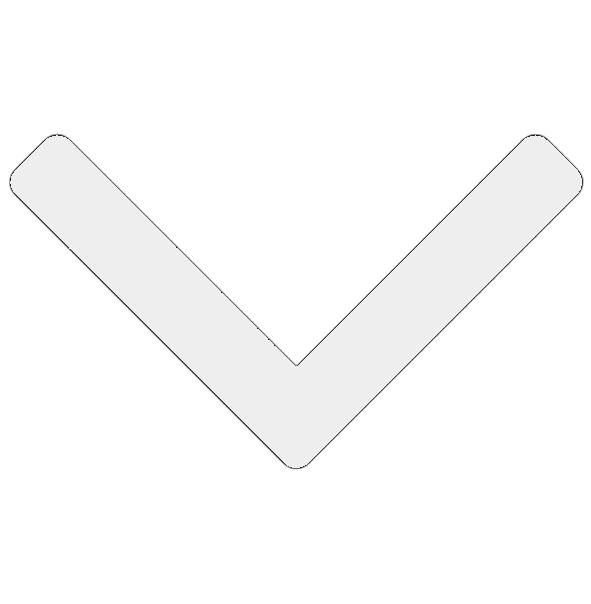
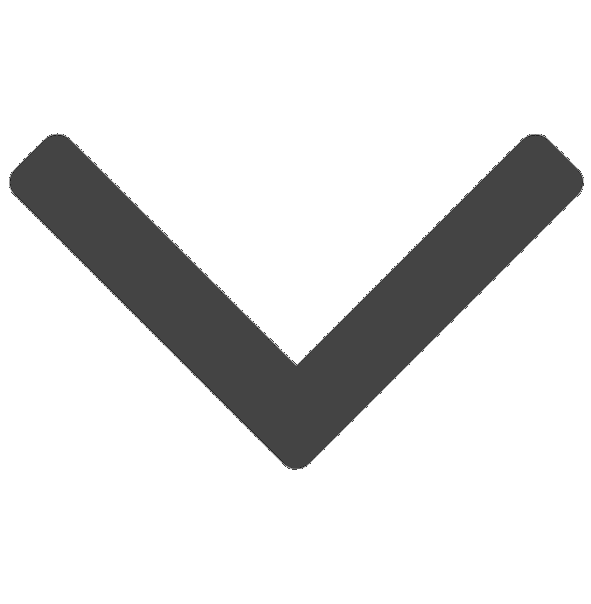
Fixed buttons size, and added arrow handle to exit the description panel

Changed region(s): [[0.0, 0.2086, 1.0, 0.7748]]

diff --git a/src/components/extras/latex/CourseFolder.tsx b/src/components/extras/latex/CourseFolder.tsx
@@ -1,5 +1,6 @@
 import { useState } from 'react';
 import styles from './LatexFolders.module.scss';
+import downArrow from '../../../assets/down_arrow.png';
 import openFolder from '../../../assets/folderOpen.png';
 import closedFolder from '../../../assets/folderClosed.png';
 import note from '../../../assets/notes.png';
@@ -23,61 +24,34 @@ function CourseFolder(props) {
 
   const numberOfElements = [
     {name: 'MATH314', files: ["Notes", "Ass4", "code"]},
-    {name: 'PHYS350', files: ["Ass1","Ass2","Ass3","Ass4","Ass5","Ass6","Ass7","Ass8", "code"]},
-    {name: 'PHYS356', files: ["Ass1","Ass2","Ass3","Ass4","Ass5","Ass6","Ass7","Ass8","Ass9", "code"]},
+    {name: 'PHYS350', files: ["Ass1","Ass2","Ass3","Ass4","Ass5","Ass6","Ass7", "code"]},
+    {name: 'PHYS356', files: ["Ass1","Ass2","Ass3","Ass4","Ass5","Ass6","Ass7", "code"]},
     {name: 'MATH327', files: ["Ass1","Ass2","Ass3","Ass4","Ass5", "code"]},
     {name: 'MATH475', files: ["Ass1","Ass2","Ass3", "code"]},
     {name: 'MATH325', files: ["Final","Ass1","Ass2","Ass3","Ass4","Ass5", "code"]}, 
     {name: 'MATH240', files: ["Ass1","Ass2","Ass3","Ass4", "code"]},
     {name: 'PHYS241', files: ["Final","Ass1","Ass2","Ass3","Ass4","Ass5", "code"]},
     {name: 'PHYS230', files: ["Ass5","Ass7","Ass8","Ass9","Ass10"]},
-
-    // {name: 'MATH314', total: 3, fcn: 1, ass: 1, code: 1},
-    // {name: 'PHYS350', total: 9, fcn: 0, ass: 8, code: 1},
-    // {name: 'PHYS356', total: 10, fcn: 0, ass: 9, code: 1},
-    // {name: 'MATH327', total: 6, fcn: 0, ass: 5, code: 1},
-    // {name: 'MATH475', total: 4, fcn: 0, ass: 3, code: 1},
-    // {name: 'MATH325', total: 6, fcn: 0, ass: 4, code: 1}, //also final exam
-    // {name: 'MATH240', total: 5, fcn: 0, ass: 4, code: 1},
-    // {name: 'PHYS241', total: 7, fcn: 0, ass: 5, code: 1}, //also final exam
-    // {name: 'PHYS230', total: 6, fcn: 0, ass: 5, code: 1},
   ];
 
   return (
     <div className={styles.folderContainer} key={key}>
       <Fade in={showDescription}>
           <div className={`${styles.decriptionPanel}`}>
-            <div className={styles.image}>
-
+            <div className={styles.imageContainer}>
+              <span>
+                {value.name}
+                <p>
+                  <img src={downArrow} width="30" />
+                </p>
+              </span>
+              <div className={styles.image} />
             </div>
             <div className={styles.description}>
               <div className={styles.filesGrid} >
                 {buildButtons(numberOfElements, index)}
-                  {/* <button>
-                    <img src={book}></img>
-                    <span>Class Notes</span>
-                  </button>
-                  <button>
-                    <img src={note}></img>
-                    <span>Assignment 1</span>
-                  </button>
-                  <button>aa</button>
-                  <button>a</button>
-                  <button>a</button> */}
               </div>  
             </div>
-            {/* <fieldset>
-              <legend>Relevent Coursework</legend>
-              <div className={styles.coursesList} >
-                <ul>
-                  <li>Introduction to Computer Science <i>(Java)</i></li>
-                  <li>Software Systems <i>(C, Bash)</i></li>
-                  <li>Matrix Numerical analysis <i>(MATLAB)</i></li>
-                  <li>Discrete Mathematics</li>
-                </ul>
-              </div>
-            </fieldset> */}
-
           </div>
         </Fade>
       <span>{value.id}</span>
@@ -117,15 +91,15 @@ const buildButtons =(numberOfElements, index) => {
 
     if(firstLetter === 'N'){
       imgLink = book;
-      text = 'Class Notes';
+      text = 'Class Notes' + '\xa0\xa0\xa0\xa0';
     }else if(firstLetter === 'A' || firstLetter ==='F') {
       imgLink = note;
       firstLetter === 'A' 
         ? text = 'Assignment' + ' ' + numberOfElements[index].files[i].substr(numberOfElements[index].files[i].length -1)
-        : text = 'Final Exam'
+        : text = `Final Exam` + '\xa0\xa0\xa0\xa0\xa0\xa0';
     }else {
       imgLink = code; 
-      text = 'Code Repo'
+      text = `Code Repo` + '\xa0\xa0\xa0\xa0\xa0\xa0';
     }
 
     temp.push (

diff --git a/src/components/extras/latex/LatexFolders.module.scss b/src/components/extras/latex/LatexFolders.module.scss
@@ -102,7 +102,7 @@
     display: flex;
     position: fixed !important;
     width: 375px;
-    height: 130px;
+    height: 110px;
     inset: 0;
     margin-top: -20px;
     background-color: aliceblue;
@@ -111,10 +111,90 @@
     z-index: 999 !important;
     transition: 3s;
 
-    .image {
-      width: 30%;
-      background: url('../../../assets/folderOpen.png');
-      background-size: cover;
+    .imageContainer {
+      display: inline-block;
+      width: 115px;
+      height: 130px;
+      isolation: isolate;
+      color: aliceblue;
+
+      &:before {
+        position: absolute;
+        content: "";
+        inset: 0;
+        width: 110px;
+        height: 40px;
+        background-color: black;
+        border-radius: 12px;
+
+        z-index: -1;
+        background:
+         linear-gradient(
+           0deg,
+           rgba(0 0 0 / 0.6),
+           rgba(0 0 0 / 0.3)
+         )
+      }
+
+      > span{
+        position: relative;
+        font-size: 12px;
+        height: 50px;
+
+        > p {
+          position: absolute;
+          content: "";
+          top: 90px;
+          left: 160px;
+          width: 50px;
+          height: 50px;
+          border-radius: 20px 20px 20px 20px;
+          background-color: aliceblue;
+          z-index: -1;
+          cursor: pointer;
+          border-collapse: separate;
+          transform: rotate(-30);
+
+          &:before {
+            position: absolute;
+            content: "";
+            bottom: 0;
+            left: 0;
+            width: 0px;
+            height: 0px;
+            border-style: solid;
+            border-width: 30px 0 0 39px;
+            border-color: transparent transparent transparent #1F1F1F;
+          }
+
+          &:after {
+            position: absolute;
+            content: "";
+            bottom: 0;
+            right: 0;
+            width: 0px;
+            height: 0px;
+            border-style: solid;
+            border-width: 0 0 30px 35px;
+            border-color: transparent transparent #1F1F1F transparent;
+          }
+          img {
+            margin-top: 7px;
+            
+          }
+
+        }
+      }
+      .image {
+        position: absolute;
+        bottom: 0;
+        width: 90px;
+        height: 80px;
+        background: url('../../../assets/folderOpen.png');
+        background-size: cover;
+        // margin-left: -10px;
+        // padding-right: 10px;
+      };
     }
 
     .description {
@@ -126,18 +206,20 @@
         flex-flow: row wrap;
         justify-content: flex-start;
       }
-      .filesGrid  {
-        flex: 0 0 calc(25% - 1em);
+      .filesGrid > a {
+        // flex: 0 0 calc(25% - 1em);
         min-height: 25px;
         width: 130px;
-        margin: 0.25em 0.5em;
+        // max-width: 120px;
+        // margin: 0.1em 0.5em;
 
-        > a > button img {
+        img {
           height: 12px;
           margin-right: 5px;
         }
+
          span {
-          width: 11ch;
+          width: 11ch !important;
           font-size: 14px;
         }
       }

diff --git a/src/components/extras/latex/LatexFolders.tsx b/src/components/extras/latex/LatexFolders.tsx
@@ -24,13 +24,13 @@ const LatexFolders = () => {
 
     const courseNames = [
         { id: 'MATH 314', name: 'Advanced Calculus' },
+        { id: 'PHYS 350', name: 'Hons. Quantum Mechanics' },
+        { id: 'PHYS 356', name: 'Hons. Electricity and Magnetism' },
+        { id: 'MATH 327', name: 'Matrix Numerical Analysis' },
         { id: 'MATH 475', name: 'Hons. Partial Differential Equations' },
         { id: 'MATH 325', name: 'Hons. Ordinary Differntial Equations' },
         { id: 'MATH 240', name: 'Discret Mathematics' },
         { id: 'PHYS 241', name: 'Signals Processing' },
-        { id: 'PHYS 350', name: 'Hons. Quantum Mechanics' },
-        { id: 'PHYS 356', name: 'Hons. Electricity and Magnetism' },
-        { id: 'MATH 327', name: 'Matrix Numerical Analysis' },
         { id: 'PHYS 230', name: 'Dynamics of Simple Systems' }
     ]
 

diff --git a/src/components/extras/Extras.module.scss b/src/components/extras/Extras.module.scss
@@ -1,6 +1,6 @@
 .container {
     width: 100vw;
-    height: 500px;
+    height: 600px;
     background-color: #100c08;
     position: relative;
     display: flex;
@@ -94,8 +94,7 @@
       }
      }
      .chessHandles {
-       position: absolute;
-       bottom: 0;
+       padding-top: 65px;
 
        td {
          text-decoration: wavy;
@@ -120,8 +119,7 @@
         top: 0;
       }
       .latexContainer {
-        position: absolute;
-        bottom: 20px;
+        padding-top: 65px;
       }
     }
 
